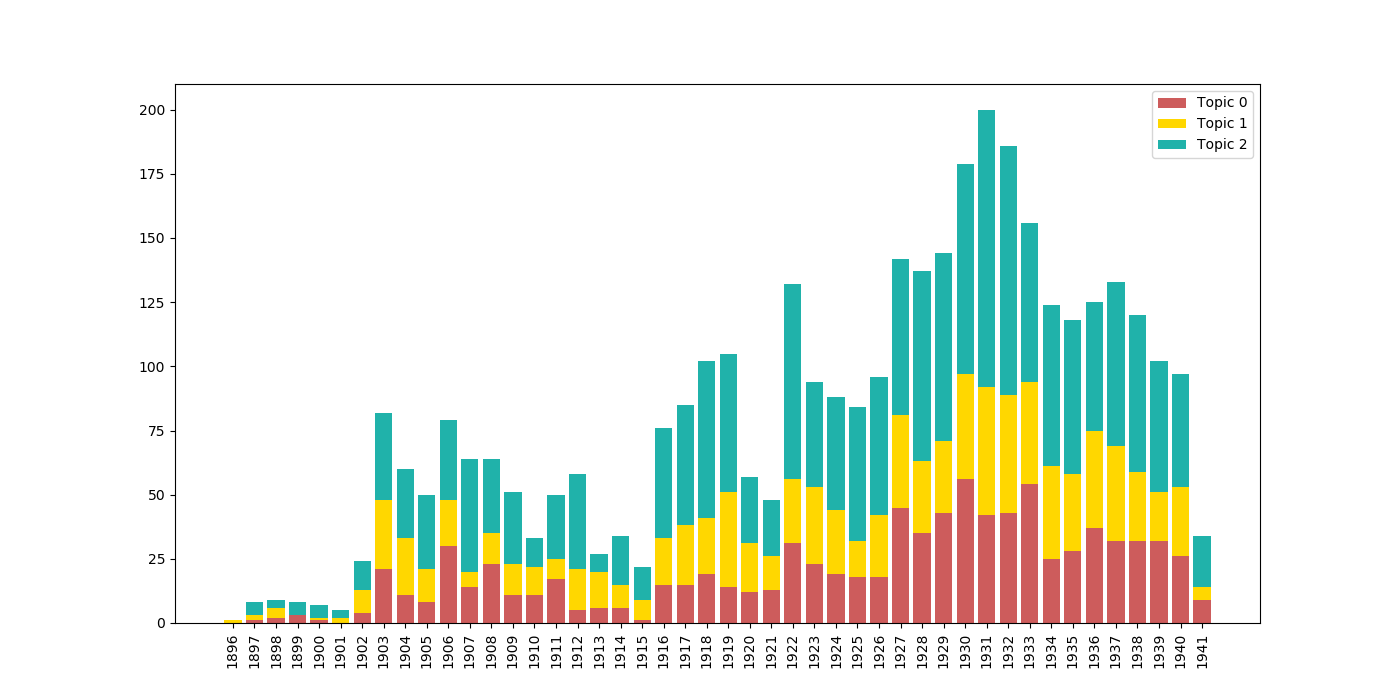
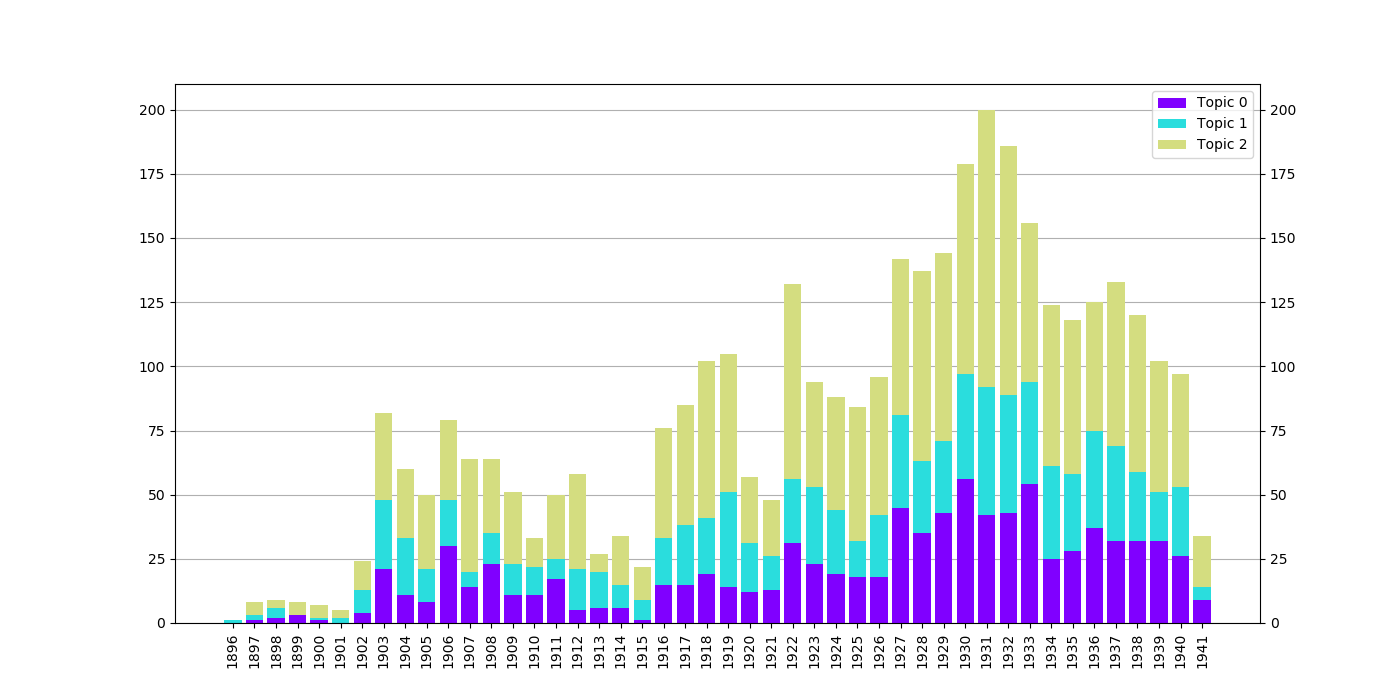
pequenas correções

diff --git a/src/models/topics.py b/src/models/topics.py
@@ -138,19 +138,27 @@ def plot_silhouette(lda_model, corpus) -> float:
 """
 function that saves most representative letters of each topic to text files for manual validation
 """
-def save_representative_letters(lda_model, n_letters: int = 3) -> None:
-	vws = get_topic_dists_dataframe(lda_model)
-	vwo = pd.read_csv(VW_ORIGINAL, index_col="index")
-	vws["main"] = np.argmax([vws[f"Topic {t}"] for t in range(lda_model.num_topics)], axis=0)
+def save_representative_letters(lda_model, n_letters: int = 3, recipient: str = None) -> None:
+	assert n_letters > 0
 
+	vwo = pd.read_csv(VW_ORIGINAL, index_col="index")
+
+	if recipient is not None:
+		vws["recipient"] = vw["recipient"]
+		vws_copy = vws[vws["recipient"] == recipient].copy()
+		acronym = f"_{''.join([name[0] for name in recipient.split(' ')]).lower()}"
+	else:
+		vws_copy = vws
+		acronym = ""
+	
 	for t in range(lda_model.num_topics):
-		vws_t = vws[vws["main"] == t]
+		vws_t = vws_copy[vws_copy["main"] == t]
 		vws_t = vws_t.sort_values(by=f"Topic {t}", ascending=False)
 
 		for i in range(n_letters):
 			letter_id = vws_t.index[i]
 			vwo_row: pd.Series = vwo.loc[letter_id]
-			vwo_row.to_csv(f"{LDA_LETTERS_PATH}lda{lda_model.num_topics}_topic{t}_letter{i}.csv", sep=":", header=True)
+			vwo_row.to_csv(f"{LDA_LETTERS_PATH}lda{lda_model.num_topics}{acronym}_topic{t}_letter{i}.csv", sep=":", header=True)
 
 	print("Saved most representative letters for LDA model.")
 
@@ -258,6 +266,8 @@ def plot_metrics(results: list) -> None:
 	ax1.grid(True)
 	ax2.grid(True)
 	plt.savefig(f"{GRAPHS_PATH}metrics_per_num_topics.png")
+	print("Saved plot of metrics comparison between different numbers of topics.")
+	plt.clf()
 
 """
 generates and saves wordclouds per topic of a given LDA model
@@ -309,20 +319,30 @@ def plot_topics_per_year(vw: pd.DataFrame) -> None:
 	yearly = yearly.drop(["main"], axis=1).drop_duplicates(subset=["year"], keep="first")
 
 	fig, ax = plt.subplots(1, 1, figsize=(14,7))
-
-	xrange = range(len(years))
 	years = list(yearly["year"])
-	colors = ["indianred", "gold", "lightseagreen"]
+	xrange = list(range(len(years)))
+	colors = [cm.rainbow(float(i)/n_topics) for i in range(n_topics)]
 	labels = [f"Topic {i}" for i in range(n_topics)]
 
-	ax.bar(x=xrange, height=yearly["0"], width=0.8, bottom=0, color=colors[0], align="center", label=labels[0])
-	ax.bar(x=xrange, height=yearly["1"], width=0.8, bottom=list(yearly["0"]), color=colors[1], align="center", label=labels[1])
-	ax.bar(x=xrange, height=yearly["2"], width=0.8, bottom=list(yearly["0"]+yearly["1"]), color=colors[2], align="center", label=labels[2])
-	# TODO: make the damn loop work ?????
+	# make bar graphs
+	for i in range(n_topics):
+		if i == 0:
+			btm = 0
+
+		else: # calculate bottom
+			sum: pd.Series = yearly["0"]
+			for j in range(1, i):
+				sum = sum + yearly[str(j)]
+
+			btm = list(sum)
+
+		ax.bar(x=xrange, height=yearly[str(i)], width=0.8, bottom=btm, color=colors[i], align="center", label=labels[i])
 
 	plt.xticks(ticks=range(len(years)), labels=years, rotation="vertical")
+	plt.tick_params(axis="y", left=True, right=True, labelleft=True, labelright=True)
 	plt.legend()
-	plt.grid(True, axis="x")
+	plt.grid(True, axis="y")
+	ax.set_axisbelow(True)
 	plt.savefig(f"{GRAPHS_PATH}topic_frequency_per_year.png")
 	plt.clf()
 
@@ -348,7 +368,7 @@ def plot_topics_per_recipient(vw: pd.DataFrame) -> None:
 	top_recs_list = list(recs.sort_values(by="num_letters", ascending=False)["recipient"][:12])
 
 	fig, axs = plt.subplots(3, 4, figsize=(14, 9))
-	colors = ["indianred", "gold", "lightseagreen"]
+	colors = [cm.rainbow(float(i)/n_topics) for i in range(n_topics)]
 	columns = [str(i) for i in range(n_topics)]
 
 	it = 0
@@ -363,9 +383,10 @@ def plot_topics_per_recipient(vw: pd.DataFrame) -> None:
 			it += 1
 
 	plt.savefig(f"{GRAPHS_PATH}topic_frequency_per_recipient.png")
+	plt.clf()
 
 
-# ----------------------------------------------------------------------------------------------
+# --------------------------------------------------------------------------
 
 vw: pd.DataFrame = read_dataframe(VW_PREPROCESSED)
 print("Pre-processed VW dataset successfully imported.")
@@ -387,12 +408,10 @@ lda = model(n_topics, saved=True)["model"]
 vws = get_topic_dists_dataframe(lda)
 vw, vws = set_main_topics(vw, vws)
 
-vw = vw[["recipient", "year", "place", "text"]].copy()
 dictionary_tokens: list = list(dictionary.token2id.keys())
 vw["text"] = vw["text"].apply(lambda tokens: [t for t in tokens if t in dictionary_tokens]) # remove words not in dict (most frequent, removed earlier)
 
-
-# save_representative_letters(lda, 5)
+# save_representative_letters(lda, 7, "Margaret Llewelyn Davies")
 # save_topic_wordclouds(lda)
-# plot_topics_per_year(vw)
+plot_topics_per_year(vw)
 # plot_topics_per_recipient(vw)
